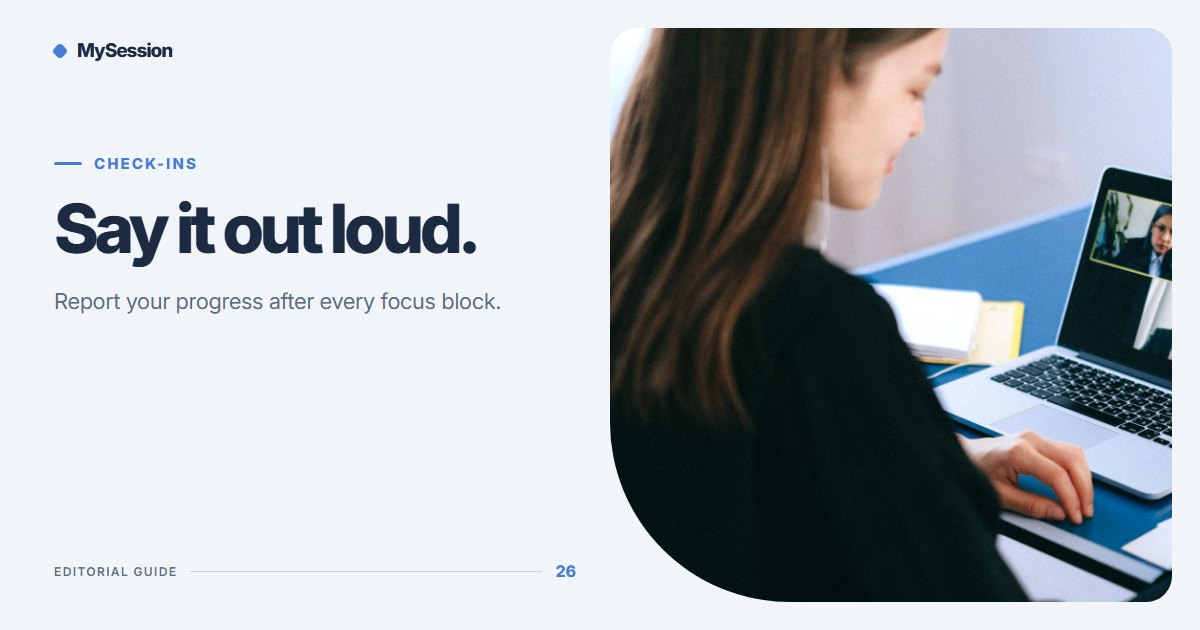
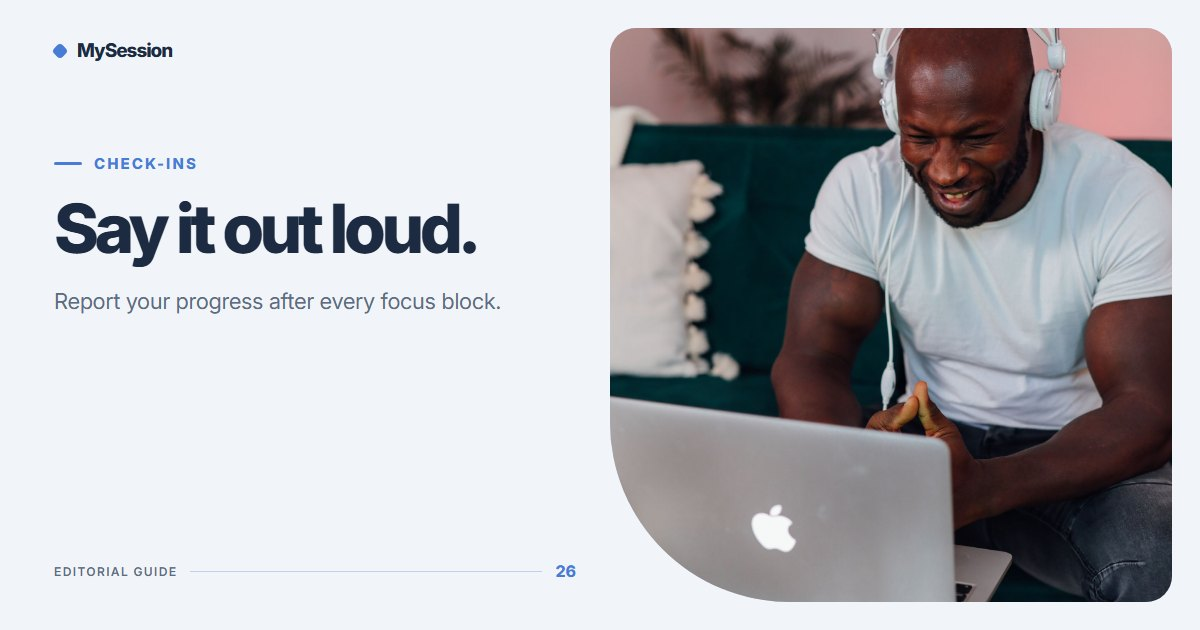
Blog: give the verbal check-ins article its own cover photo
The first cover reused the Pexels photo already on the "One partner or
a room?" cover. Switch to a photo of a man in headphones talking on a
video call (KoolShooters, Pexels) and update the alt text.

diff --git a/scripts/editorial-covers/compositions/why-verbal-check-ins-matter-in-body-doubling.html b/scripts/editorial-covers/compositions/why-verbal-check-ins-matter-in-body-doubling.html
@@ -76,7 +76,7 @@
 </head>
 <body>
   <main class="cover" data-theme="mist" aria-label="CHECK-INS cover">
-    <div class="photo"><img src="photos/why-verbal-check-ins-matter-in-body-doubling.jpg" alt="A woman at a laptop on a group video call"></div>
+    <div class="photo"><img src="photos/why-verbal-check-ins-matter-in-body-doubling.jpg" alt="A smiling man in headphones talks on a video call at his laptop"></div>
     <div class="brand"><span class="brand-mark" aria-hidden="true"></span>MySession</div>
     <div class="copy">
       <div class="category">CHECK-INS</div>
